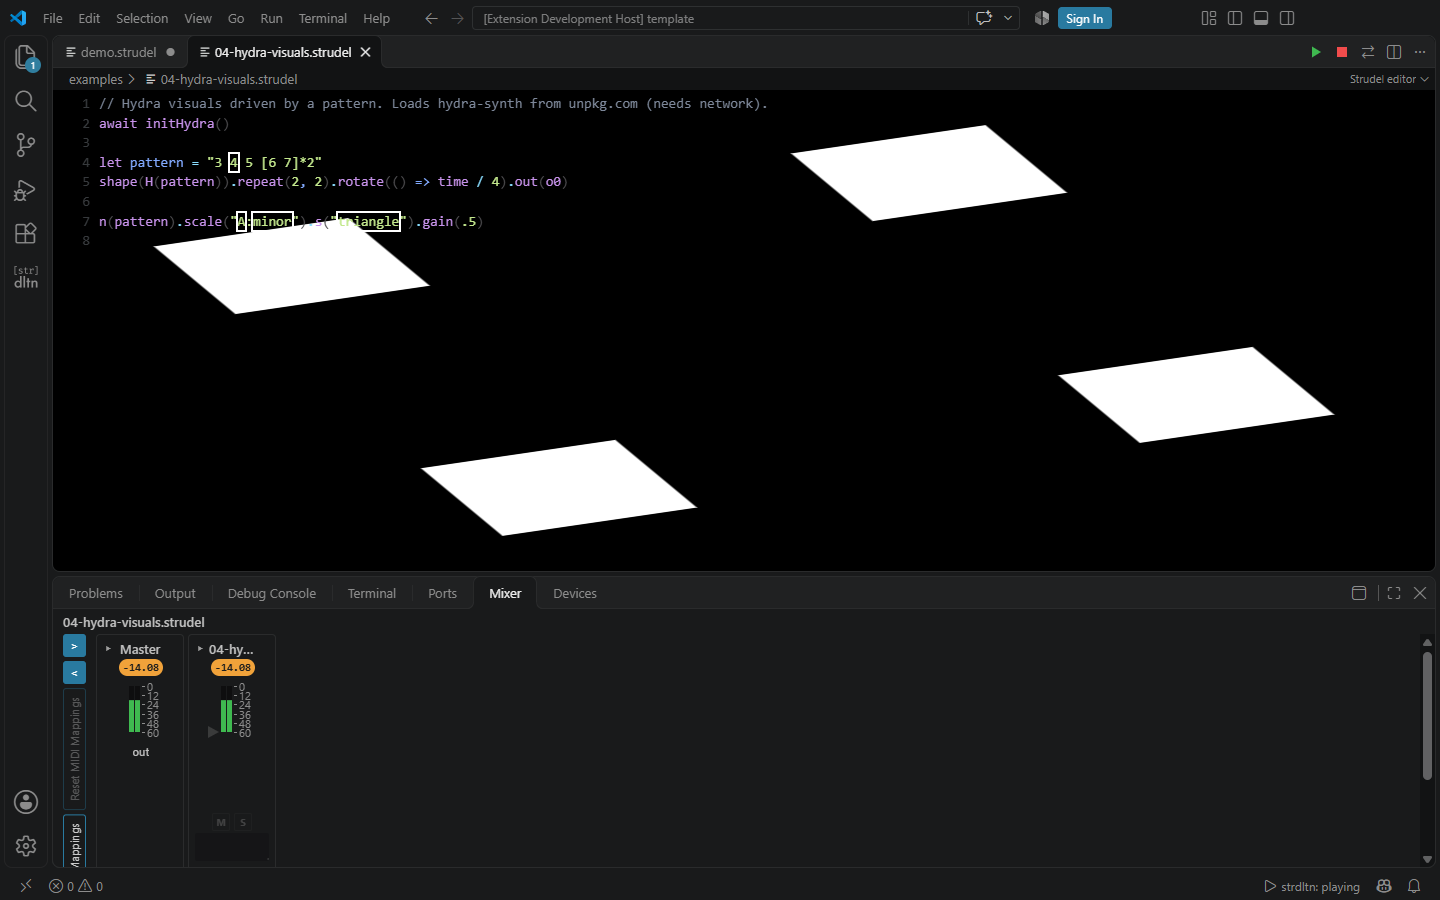
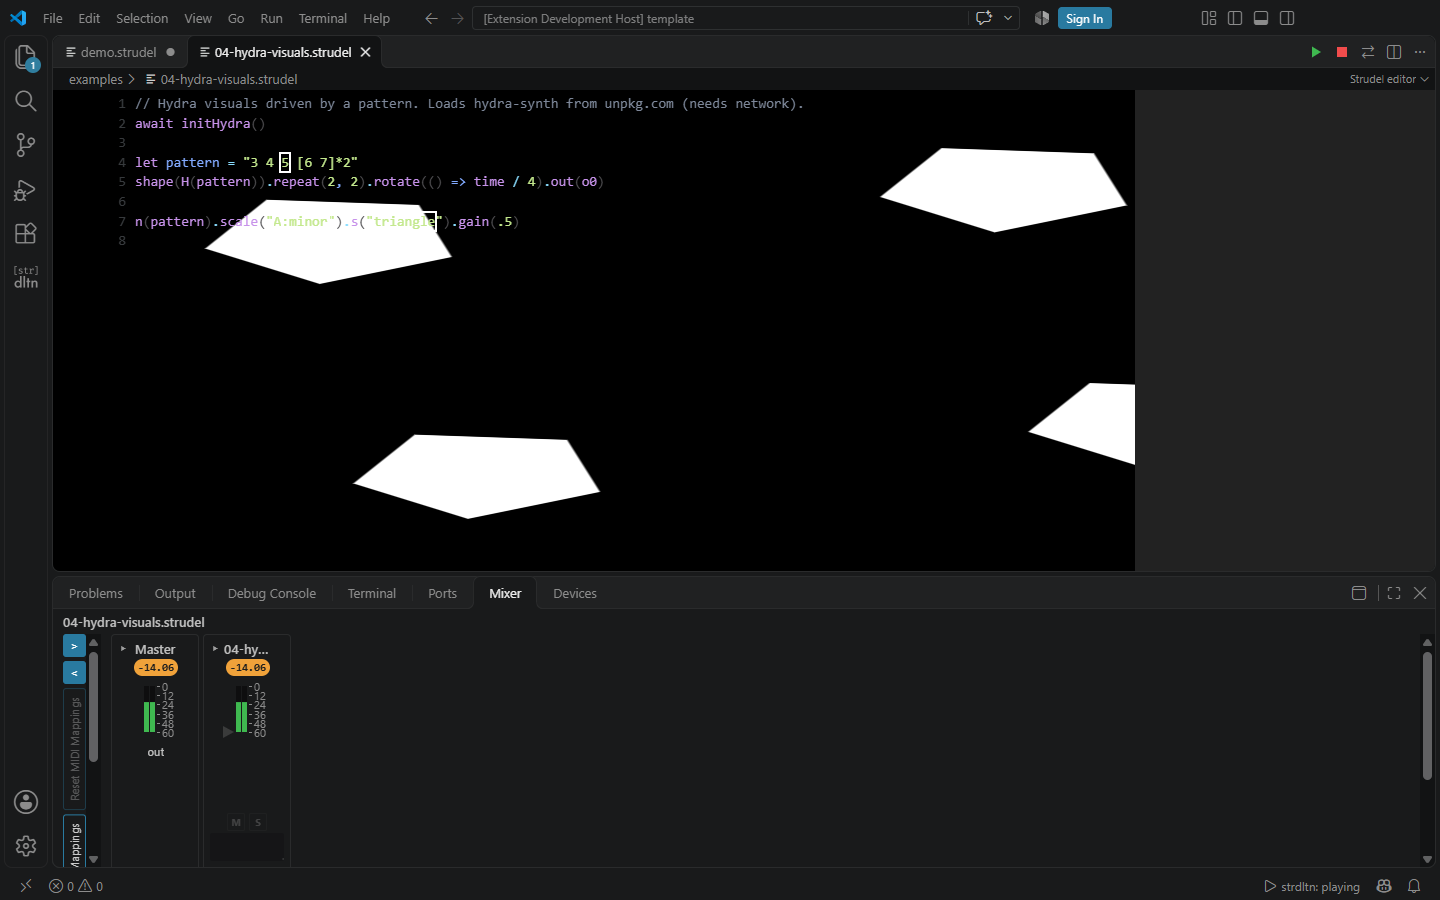
docs: retake the manual, README and ABOUT pictures from the integration test

diff --git a/src/test/m0.ts b/src/test/m0.ts
@@ -43,6 +43,9 @@ export async function run(): Promise<void> {
 		const shots = process.env.VSTRUDEL_TEST_SHOTS;
 		const shot = async (name: string) => {
 			if (!shots) return;
+			// A toast of an earlier step (an install, a render) would sit over the Mixer in every picture after it.
+			await vscode.commands.executeCommand('notifications.clearAll').then(undefined, () => undefined);
+			await sleep(300);
 			writeFileSync(join(shots, `${name}.request`), '');
 			await until(() => existsSync(join(shots, `${name}.png`)), 8000);
 		};
@@ -903,11 +906,42 @@ export async function run(): Promise<void> {
 		await api.mixerShow(['bass']);
 		const kick = api.mixer().model?.chains.findIndex((chain) => chain.name === 'kick') ?? -1;
 		if (kick >= 0) api.mixerReveal(kick);
+		// The cursor on $hhr scrolls the chains from $kick to $hh into view, with their scopes and sliders, for the
+		// pictures of the editor (doc/USERMANUAL.md, editor.png).
+		await api.revealText('$hhr:');
 		const framesBefore = api.mixer().scopeFrames;
 		await sleep(3000);
 		// The scopes of the song reach the Mixer while it plays, about 20 frames a second.
 		steps.mixerScopes = { frames: api.mixer().scopeFrames - framesBefore, scopes: api.mixer().lastScopes };
 		await shot('doc-overview');
+		// 9b. Pictures for doc/USERMANUAL.md, each in the state its SCREENSHOT SPEC asks for, while the demo plays. The
+		// side bar is cut out of these by hand.
+		const manualShots: Record<string, unknown> = {};
+		steps.manualShots = manualShots;
+		try {
+			const open = { controls: true, library: true, contents: true, reference: false };
+			const firstDrum = api.browserFind({ category: 'drums', group: tr909doc })[0];
+			await api.browserShow({ query: '', chips: [], color: undefined, place: undefined, scope: undefined, builtin: undefined, category: 'drums', group: tr909doc });
+			manualShots.browser = await api.browserStage(open, firstDrum);
+			await sleep(800);
+			await shot('manual-browser');
+			await api.browserShow({ query: 'lpf', chips: [], color: undefined, place: undefined, scope: undefined, builtin: undefined, category: 'functions' });
+			manualShots.reference = await api.browserStage({ controls: true, library: false, contents: true, reference: true }, 'fn:lpf');
+			await sleep(800);
+			await shot('manual-reference');
+			await api.browserShow({ query: '', chips: [], color: undefined, place: undefined, scope: undefined, builtin: undefined, category: 'fm1' });
+			await until(() => api.firmware().hub > 0, 30000);
+			await sleep(1500);
+			const shrub = api.browserFind({ category: 'fm1' }).find((id) => /shrub/i.test(id));
+			manualShots.fm1 = await api.browserStage({ controls: true, library: false, contents: true, reference: false }, shrub);
+			manualShots.shrub = shrub;
+			await sleep(1500);
+			await shot('manual-fm1');
+			await api.browserShow({ query: '', chips: [], color: undefined, place: undefined, scope: undefined, builtin: undefined, category: 'drums', group: tr909doc });
+		} catch (error) {
+			manualShots.error = String(error);
+		}
+		save();
 		await vscode.commands.executeCommand('strdltn.stop');
 		result.finished = true;
 		result.logs = api.sessions().map((s) => ({ mode: s.mode, uri: s.uri.split('/').pop(), logs: s.logs }));

diff --git a/src/shared/browser.ts b/src/shared/browser.ts
@@ -63,7 +63,9 @@ export type ToBrowser =
 	/** Experimental setting `strdltn.experimental.fm1Flash` changed. */
 	| { type: 'flashEnabled'; on: boolean }
 	/** The filter changed in another view, or by a command. `open` opens headings in Results, for the integration test. */
-	| { type: 'filter'; filter: BrowserFilterState; show?: boolean };
+	| { type: 'filter'; filter: BrowserFilterState; show?: boolean }
+	/** For the pictures of the manual: opens and folds panes, and selects one row so the details show it. */
+	| { type: 'stage'; panes?: Partial<BrowserPanes>; select?: string };
 
 export type FromBrowser =
 	| { type: 'ready' }

diff --git a/src/extension/browser.ts b/src/extension/browser.ts
@@ -183,6 +183,11 @@ export class BrowserView {
 		this.setFilter({ ...this.filter, ...filter }, undefined, true);
 	}
 
+	/** Opens and folds panes and selects a row, as the hand would. For the pictures of the manual. */
+	stage(message: Omit<Extract<ToBrowser, { type: 'stage' }>, 'type'>): void {
+		this.post({ type: 'stage', ...message });
+	}
+
 	/** What Results reported last: the filter, and how many results and rows it shows. */
 	state(): Extract<FromBrowser, { type: 'state' }> | undefined {
 		return this.lastState;

diff --git a/src/browser/main.ts b/src/browser/main.ts
@@ -1286,6 +1286,13 @@ window.addEventListener('message', (event: MessageEvent<ToBrowser>) => {
 		case 'flashEnabled':
 			flashEnabled = message.on;
 			return update();
+		case 'stage': {
+			Object.assign(panes, message.panes ?? {});
+			update();
+			const index = message.select ? rows.findIndex((row) => row.type !== 'heading' && row.item.id === message.select) : -1;
+			if (index >= 0) moveCursor(index, false);
+			return;
+		}
 		case 'filter':
 			filter = message.filter;
 			searchbarSync();

diff --git a/doc/ARCHITECTURE.md b/doc/ARCHITECTURE.md
@@ -394,16 +394,18 @@ samples and the packs of its songs, and is for a workspace that has no list yet.
 of a running engine always replaces the kept one. Preview needs an engine and says so.
 We chose a kept list over an engine of its own, see the drawer.
 
-**Screenshots.** The pictures in `doc/` (`screenshot-*.png`, used by the README and
-`doc/ABOUT.md`) come from the integration test. Its last step ("9. Pictures for
-README.md and doc/ABOUT.md") plays `demo.strudel` in the Strudel editor, shows the
-Library on Drums with the TR-909 open in Results and the Mixer with bass unfolded,
-and saves `tmp/shots/doc-overview.png`. From a run of `pnpm test:vscode` (the Hydra and
-stage shots only come from the full run), the pictures are cut by hand with Pillow:
-`screenshot-overview.png`, `-stage.png` and `-hydra.png` are the whole window at half
-size (1440 by 900), `-music.png` and `-browser.png` are the Mixer and the side bar
-cut out of the overview, at half size. The window title says "[Extension Development
-Host]" (decision 11 of `doc/TODO.md`). Made on 2026-11-21 for 0.2.0.
+**Screenshots.** The pictures in `doc/` (`screenshot-*.png`, for the README and `doc/ABOUT.md`) and in `doc/manual/`
+(for `doc/USERMANUAL.md`) come from one run of `pnpm test:vscode`; each file's `SCREENSHOT SPEC` comment says what it
+must show. The test takes them in the state the specs ask: step 9 plays `demo.strudel` with the cursor on `$hhr` (so the
+chains from `$kick` show with their scopes and sliders), the Browser on Drums > TR-909 and the Mixer with bass unfolded
+(`doc-overview`); step 9b uses `browserStage` to open the panes and select a row for the details: the Browser
+(`manual-browser`), Reference > Functions on `lpf` (`manual-reference`) and FM-1 Synths with SHRUB selected
+(`manual-fm1`). The stage, Devices and Hydra shots come from their own steps of the full run. Every shot first clears
+the notifications, because a toast of an earlier step sat over the Mixer in every later picture. The files are then cut
+with Pillow from the 1440 by 900 window: whole window for overview, stage and Hydra; the side bar (x 48-348, y 40-868)
+for the Browser, Reference and FM-1 Synths; the editor group (x 353-1440, y 40-572) for the editor; the bottom panel
+(x 353-1440, y 576-868) for the Mixer and Devices. The window title says "[Extension Development Host]" (decision 11
+of `doc/TODO.md`). Made on 2026-11-26.
 
 **Logo and icons.** The Browser has no logo any more: the maintainer took it out on
 2026-11-21 (its colors did not match the theme and it took room), and `media/logo.jpg`
